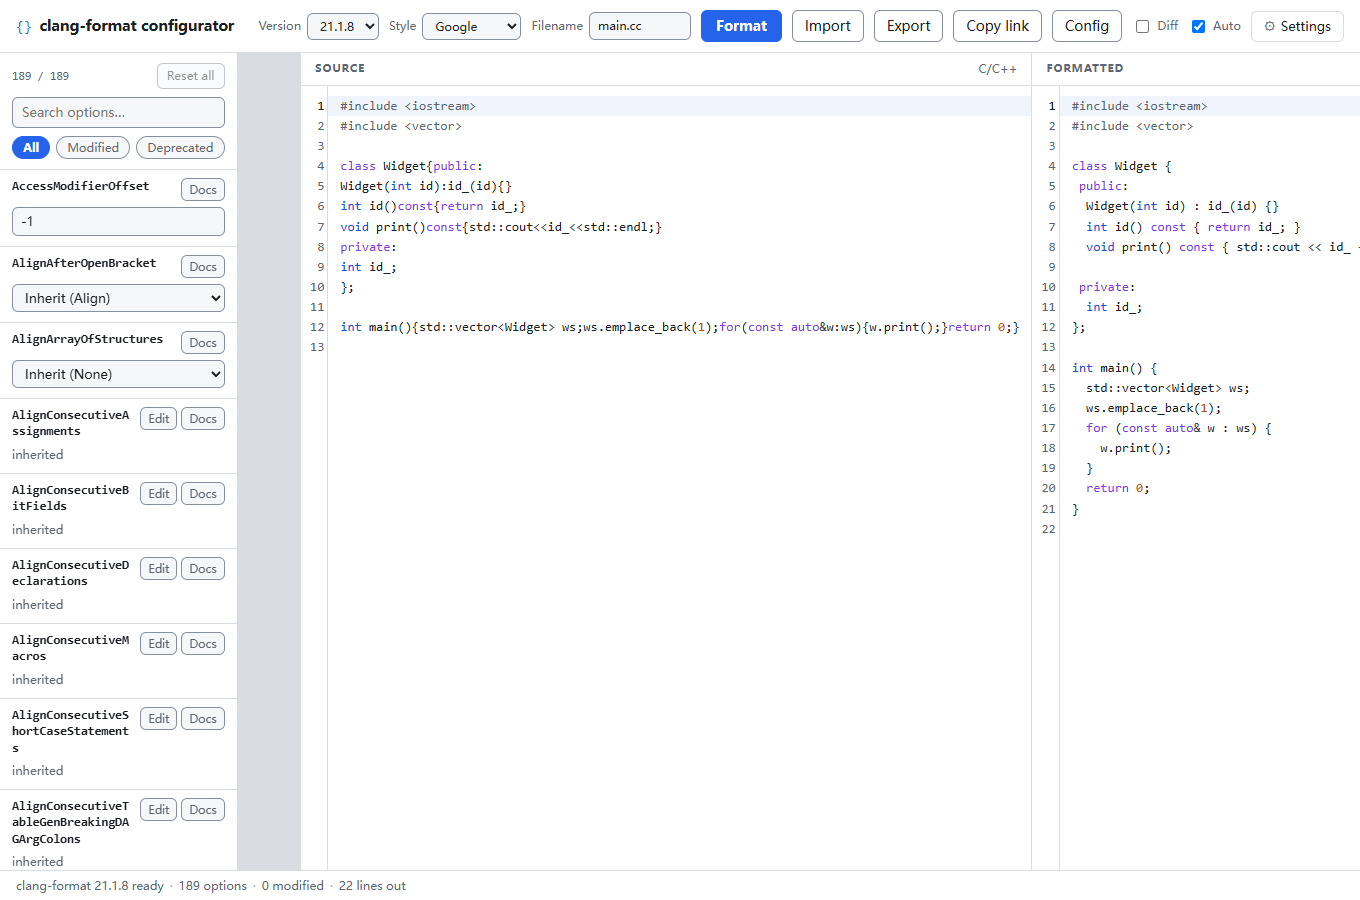
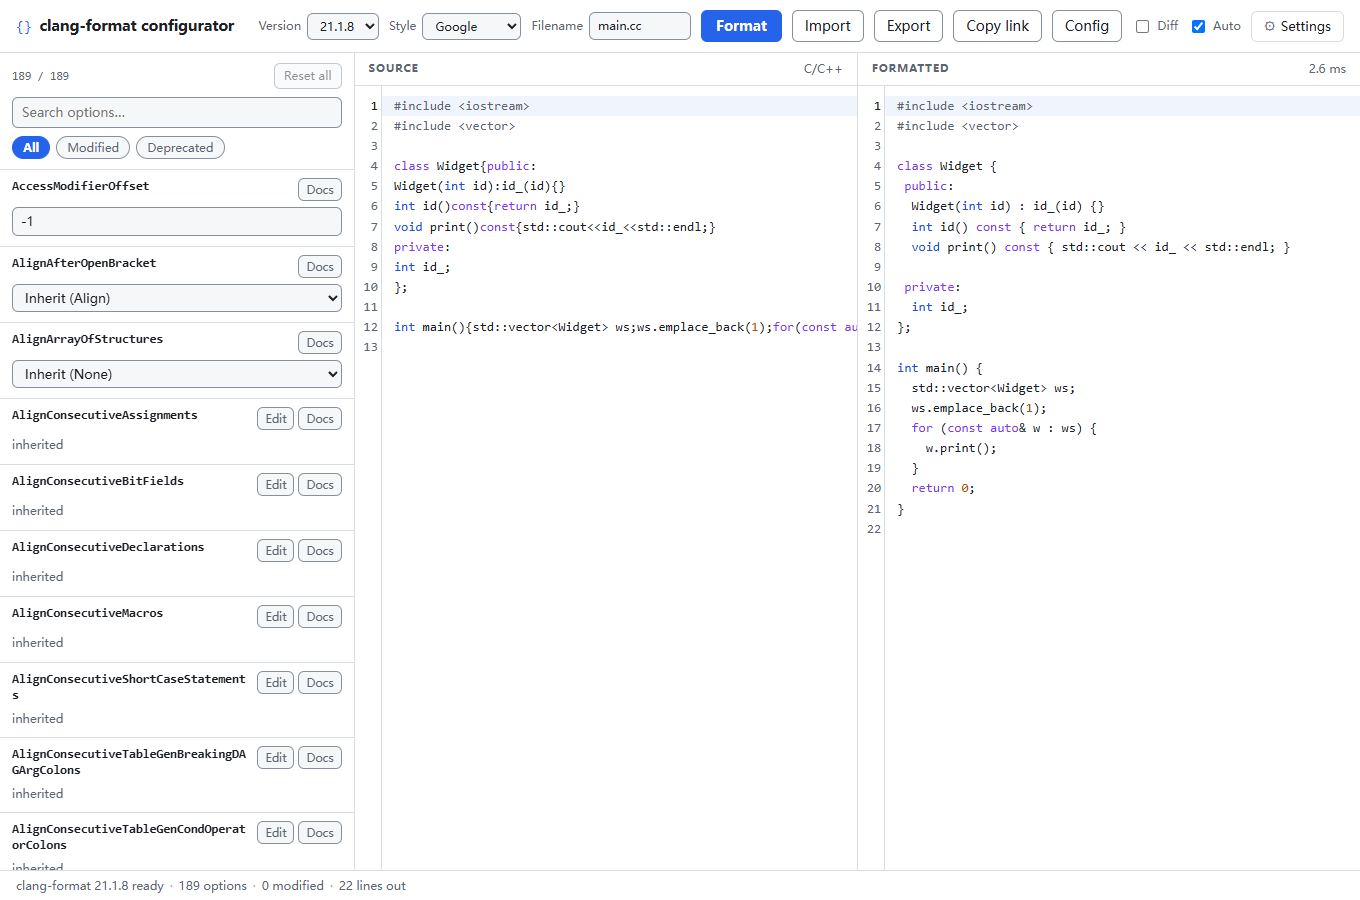
fix(ui): fill the options column and contain CodeMirror min-content
- OptionPanel.panel gets width: 100%. As a flex item its width was
  content-based (237px), so the 300px grid track was not painted to the right
  of the panel and the --border gutter colour showed through as a gray strip.
- main's editor track is now minmax(0, 1fr) and .workbench/.pane/.editorHost
  get min-width: 0. CodeMirror's content is as wide as its longest line, and a
  plain 1fr used that min-content size as the track floor: at 1360px the page
  was 1477px wide (horizontal scroll) and the left column was pinned to its
  300px minimum.
- optionsArea gets the surface background and the loading placeholder width so
  the left column never flashes as a gutter-coloured band.
- Regression test in m4.spec.ts checks the panel fills its track and the page
  has no horizontal overflow at 1600/1360/1280/1100px.
- README screenshot regenerated; counts updated in plan/handoff.

Local verification: typecheck + 298 unit tests + build green; Playwright 65/65
on base / and on the /clang-format-configurator-v3/ subpath build.

diff --git a/tests/e2e/m4.spec.ts b/tests/e2e/m4.spec.ts
@@ -306,6 +306,49 @@ test("interface size scales the UI (not the editor) and persists", async ({ page
 });
 
 // ---------------------------------------------------------------------------
+// Desktop layout: the options panel fills its column, no horizontal overflow
+// ---------------------------------------------------------------------------
+
+test("desktop columns fill their tracks without horizontal page overflow", async ({ page }) => {
+  // CodeMirror's content is as wide as its longest line; before the grid tracks
+  // used minmax(0, 1fr) that min-content size widened the page and left an
+  // unpainted strip next to the options panel.
+  await openApp(page);
+
+  for (const width of [1600, 1360, 1280, 1100]) {
+    await page.setViewportSize({ width, height: 900 });
+    const layout = await page.evaluate(() => {
+      const main = document.querySelector("main");
+      if (main === null) throw new Error("main is missing");
+      const optionsArea = main.firstElementChild as HTMLElement | null;
+      const workbench = main.lastElementChild as HTMLElement | null;
+      const panel = document.querySelector<HTMLElement>('[data-testid="options-panel"]');
+      if (optionsArea === null || workbench === null || panel === null) throw new Error("layout nodes are missing");
+      return {
+        optionsAreaWidth: optionsArea.getBoundingClientRect().width,
+        panelWidth: panel.getBoundingClientRect().width,
+        workbenchRight: workbench.getBoundingClientRect().right,
+        mainRight: main.getBoundingClientRect().right,
+        scrollWidth: document.documentElement.scrollWidth,
+        clientWidth: document.documentElement.clientWidth,
+      };
+    });
+
+    // The panel stretches to the whole track (no gray strip to its right)...
+    expect(
+      Math.abs(layout.panelWidth - layout.optionsAreaWidth),
+      `options panel should fill its column at ${width}px`,
+    ).toBeLessThanOrEqual(1);
+    // ...and the editor track stays inside the viewport (long lines scroll
+    // inside CodeMirror instead of widening the page).
+    expect(layout.workbenchRight, `workbench should stay inside main at ${width}px`).toBeLessThanOrEqual(
+      layout.mainRight + 1,
+    );
+    expect(layout.scrollWidth, `no page overflow at ${width}px`).toBeLessThanOrEqual(layout.clientWidth + 1);
+  }
+});
+
+// ---------------------------------------------------------------------------
 // Language switching example snippets (M4, plan §9 "C#/proto 代码示例")
 // ---------------------------------------------------------------------------
 

diff --git a/src/App.module.css b/src/App.module.css
@@ -62,6 +62,8 @@
 .optionsArea {
   display: flex;
   min-height: 0;
+  min-width: 0;
+  background: var(--surface);
 }
 
 .header {
@@ -219,13 +221,18 @@
 .main {
   flex: 1;
   display: grid;
-  grid-template-columns: minmax(300px, 26vw) 1fr;
+  /* `minmax(0, 1fr)` on the editor track: CodeMirror's content is as wide as
+     its longest line, and a plain `1fr` would let that min-content size push
+     the grid wider than the viewport (horizontal page scroll). The panes
+     below also need min-width: 0 for the same reason. */
+  grid-template-columns: minmax(300px, 26vw) minmax(0, 1fr);
   gap: 1px;
   background: var(--border);
   min-height: 0;
 }
 
 .panelPlaceholder {
+  width: 100%;
   padding: 16px;
   background: var(--surface);
   color: var(--muted);
@@ -236,6 +243,7 @@
   display: flex;
   flex-direction: column;
   min-height: 0;
+  min-width: 0;
   background: var(--surface);
 }
 
@@ -253,6 +261,7 @@
   flex-direction: column;
   background: var(--surface);
   min-height: 0;
+  min-width: 0;
 }
 
 .paneHead {
@@ -310,6 +319,7 @@
 .editorHost {
   flex: 1;
   min-height: 0;
+  min-width: 0;
 }
 
 .editorHost :global(.cm-editor) {
@@ -368,7 +378,7 @@
 
 @media (max-width: 1100px) {
   .main {
-    grid-template-columns: minmax(280px, 32vw) 1fr;
+    grid-template-columns: minmax(280px, 32vw) minmax(0, 1fr);
   }
 }
 

diff --git a/src/components/OptionPanel.module.css b/src/components/OptionPanel.module.css
@@ -17,6 +17,9 @@
 .panel {
   height: 100%;
   min-height: 0;
+  /* Fill the options column: as a flex item its width is content-based by
+     default, which left an unpainted strip between the panel and the editor. */
+  width: 100%;
   display: flex;
   flex-direction: column;
   background: var(--surface);

diff --git a/plan.md b/plan.md
@@ -350,7 +350,8 @@ Notes：
 - **界面字号缩放**：`uiFontScale` 三档 0.9/1/1.15（`UI_FONT_SCALES`，向后兼容增字段，不 bump `STATE_VERSION`）；`:root { font-size: calc(100% * var(--ui-scale)) }` + 全站 CSS 字号 px→rem，编辑器字号仍独立走 `--font-size-editor`；Settings 菜单加 "Interface size"，即时生效并持久化。虚拟列表收到 `remeasureKey` 后 rAF 里对已渲染行逐个 `measureElement` 重测（`measure()` 会因旧 measurementsCache 把 delta 算成 0，已避开）；e2e 覆盖字号变化、编辑器不受影响、行不重叠、搜索/导出可用、刷新保持。
 - **a11y / 交互遗留**：虚拟列表 roving 键盘模型（单一 Tab 停靠点、↑↓/Home/End/PageUp/PageDown、跨虚拟窗口 `rangeExtractor` 保证停靠点、搜索/过滤/版本切换收敛、`role=list/listitem` + `aria-setsize/posinset`）；ConfigDialog 与 ConfigDrawer 共用焦点陷阱（Tab 循环、Escape、焦点归还、modal 栈按 z-index 决定 top，修掉一次 Escape 同关两个 modal）；docs HTML 渲染层归一化（`<pre>` 加 `tabindex=0`、清理泄漏的 RST directive/marker，转义正确，搜索索引用同一份文本）。新增单测 53 条（roving 22 / focus-trap 16 / useDocs 15）+ e2e 5 条。
 - **nightly 漂移检查**：`tools/gen-schema.mjs --check` 重生成到 `.cache/schema-check` 并逐文件比对（`--allow-missing-native` 时 26 个 native-dump 版本跳过默认值、仍验 RST 文档与结构）；`.github/workflows/nightly.yml` 每日跑，失败只开/更新 issue。已验证干净 checkout（无 `.cache`）会自动重拉 52 个 RST，篡改 index 会非 0 退出。
-- **验收证据**：`npm run verify` 全绿（typecheck + **298 单测 / 18 文件** + build）；Playwright **64 条**（4 smoke + 17 M1 + 12 M2 + 11 M3 + 1 golden + 2 perf + 7 M4 + 5 M4-PWA + 5 M4-a11y）在 base `/` 与 `/<repo>/` 子路径构建下各 **64 passed**（perf 在独立 project 里排到主套件之后串行跑，避免 52 版本下 CPU 抢占造成的假阳性；预算未放宽）；`check:size` **157 项全过**（首屏 JS 224.5 KB / 250 KB；52 个 wasm 902.4–1071.5 KB / 1.1 MB；core 6.4–8.5 KB、docs 19.3–24.6 KB）；52/52 版本运行期自检 + 312/312 native 对拍；dist ≈130 MB。CI [40062550829](https://github.com/lzh0394/clang-format-configurator-v3/actions/runs/40062550829) 与 deploy（build→deploy→对线上 URL 跑整套 e2e）[40062550843](https://github.com/lzh0394/clang-format-configurator-v3/actions/runs/40062550843) 全绿；nightly 手动验证 [40062227600](https://github.com/lzh0394/clang-format-configurator-v3/actions/runs/40062227600) 通过。
+- **桌面布局修整（M4 收尾）**：`main` 的第二列改为 `minmax(0, 1fr)`，`.workbench`/`.pane`/`.editorHost` 加 `min-width: 0`，选项面板 `width: 100%`——修掉 CodeMirror 长行把整页撑出横向滚动、以及选项面板没铺满左侧网格列时露出的灰带；e2e 在 1600/1360/1280/1100 四个视口宽度断言面板与列同宽、无横向溢出。
+- **验收证据**：`npm run verify` 全绿（typecheck + **298 单测 / 18 文件** + build）；Playwright **65 条**（4 smoke + 17 M1 + 12 M2 + 11 M3 + 1 golden + 2 perf + 8 M4 + 5 M4-PWA + 5 M4-a11y）在 base `/` 与 `/<repo>/` 子路径构建下各 **65 passed**（perf 在独立 project 里排到主套件之后串行跑，避免 52 版本下 CPU 抢占造成的假阳性；预算未放宽）；`check:size` **157 项全过**（首屏 JS 224.5 KB / 250 KB；52 个 wasm 902.4–1071.5 KB / 1.1 MB；core 6.4–8.5 KB、docs 19.3–24.6 KB）；52/52 版本运行期自检 + 312/312 native 对拍；dist ≈130 MB。CI [40062550829](https://github.com/lzh0394/clang-format-configurator-v3/actions/runs/40062550829) 与 deploy（build→deploy→对线上 URL 跑整套 e2e）[40062550843](https://github.com/lzh0394/clang-format-configurator-v3/actions/runs/40062550843) 全绿；nightly 手动验证 [40062227600](https://github.com/lzh0394/clang-format-configurator-v3/actions/runs/40062227600) 通过。
 - **M4 遗留 / 明确不做**：快速导入/导出对话框与配置抽屉仍并存（有意保留两个入口，M2 交接已说明；收敛会改变 M1 的 e2e 契约）；docs 生成器把 RST 表格单元格压平成文本，单元格内代码块仍无 `<pre>` 语义（需改 `tools/lib/rst.mjs`，渲染层归一化已兼容）；SW 更新横幅、>2 MB、崩溃横幅的 e2e 缺口照旧；安装横幅 dismiss 永久持久化（无设置项重置）；19.1.1 的 `core.build` 上游标签错保持原样。
 
 **估时口径**：单人、熟悉 React/TS、无会议，1 天 = 6 h 净编码；不含 review 往返、CI 排队、部署调试。基准不是"写多少行代码"，而是 v2 的可见功能清单——每条标成**照搬 / 重写 / 新增**三档分别加权，漏项比写得慢更容易让工期翻倍。每项拆到 ≤4 h 再估，给"乐观–最可能"区间；悲观情况不摊进区间，而是单列成 §10 的回退路径（平摊出来的 buffer 最后都会被吃掉，还看不出是哪一项超了）。
